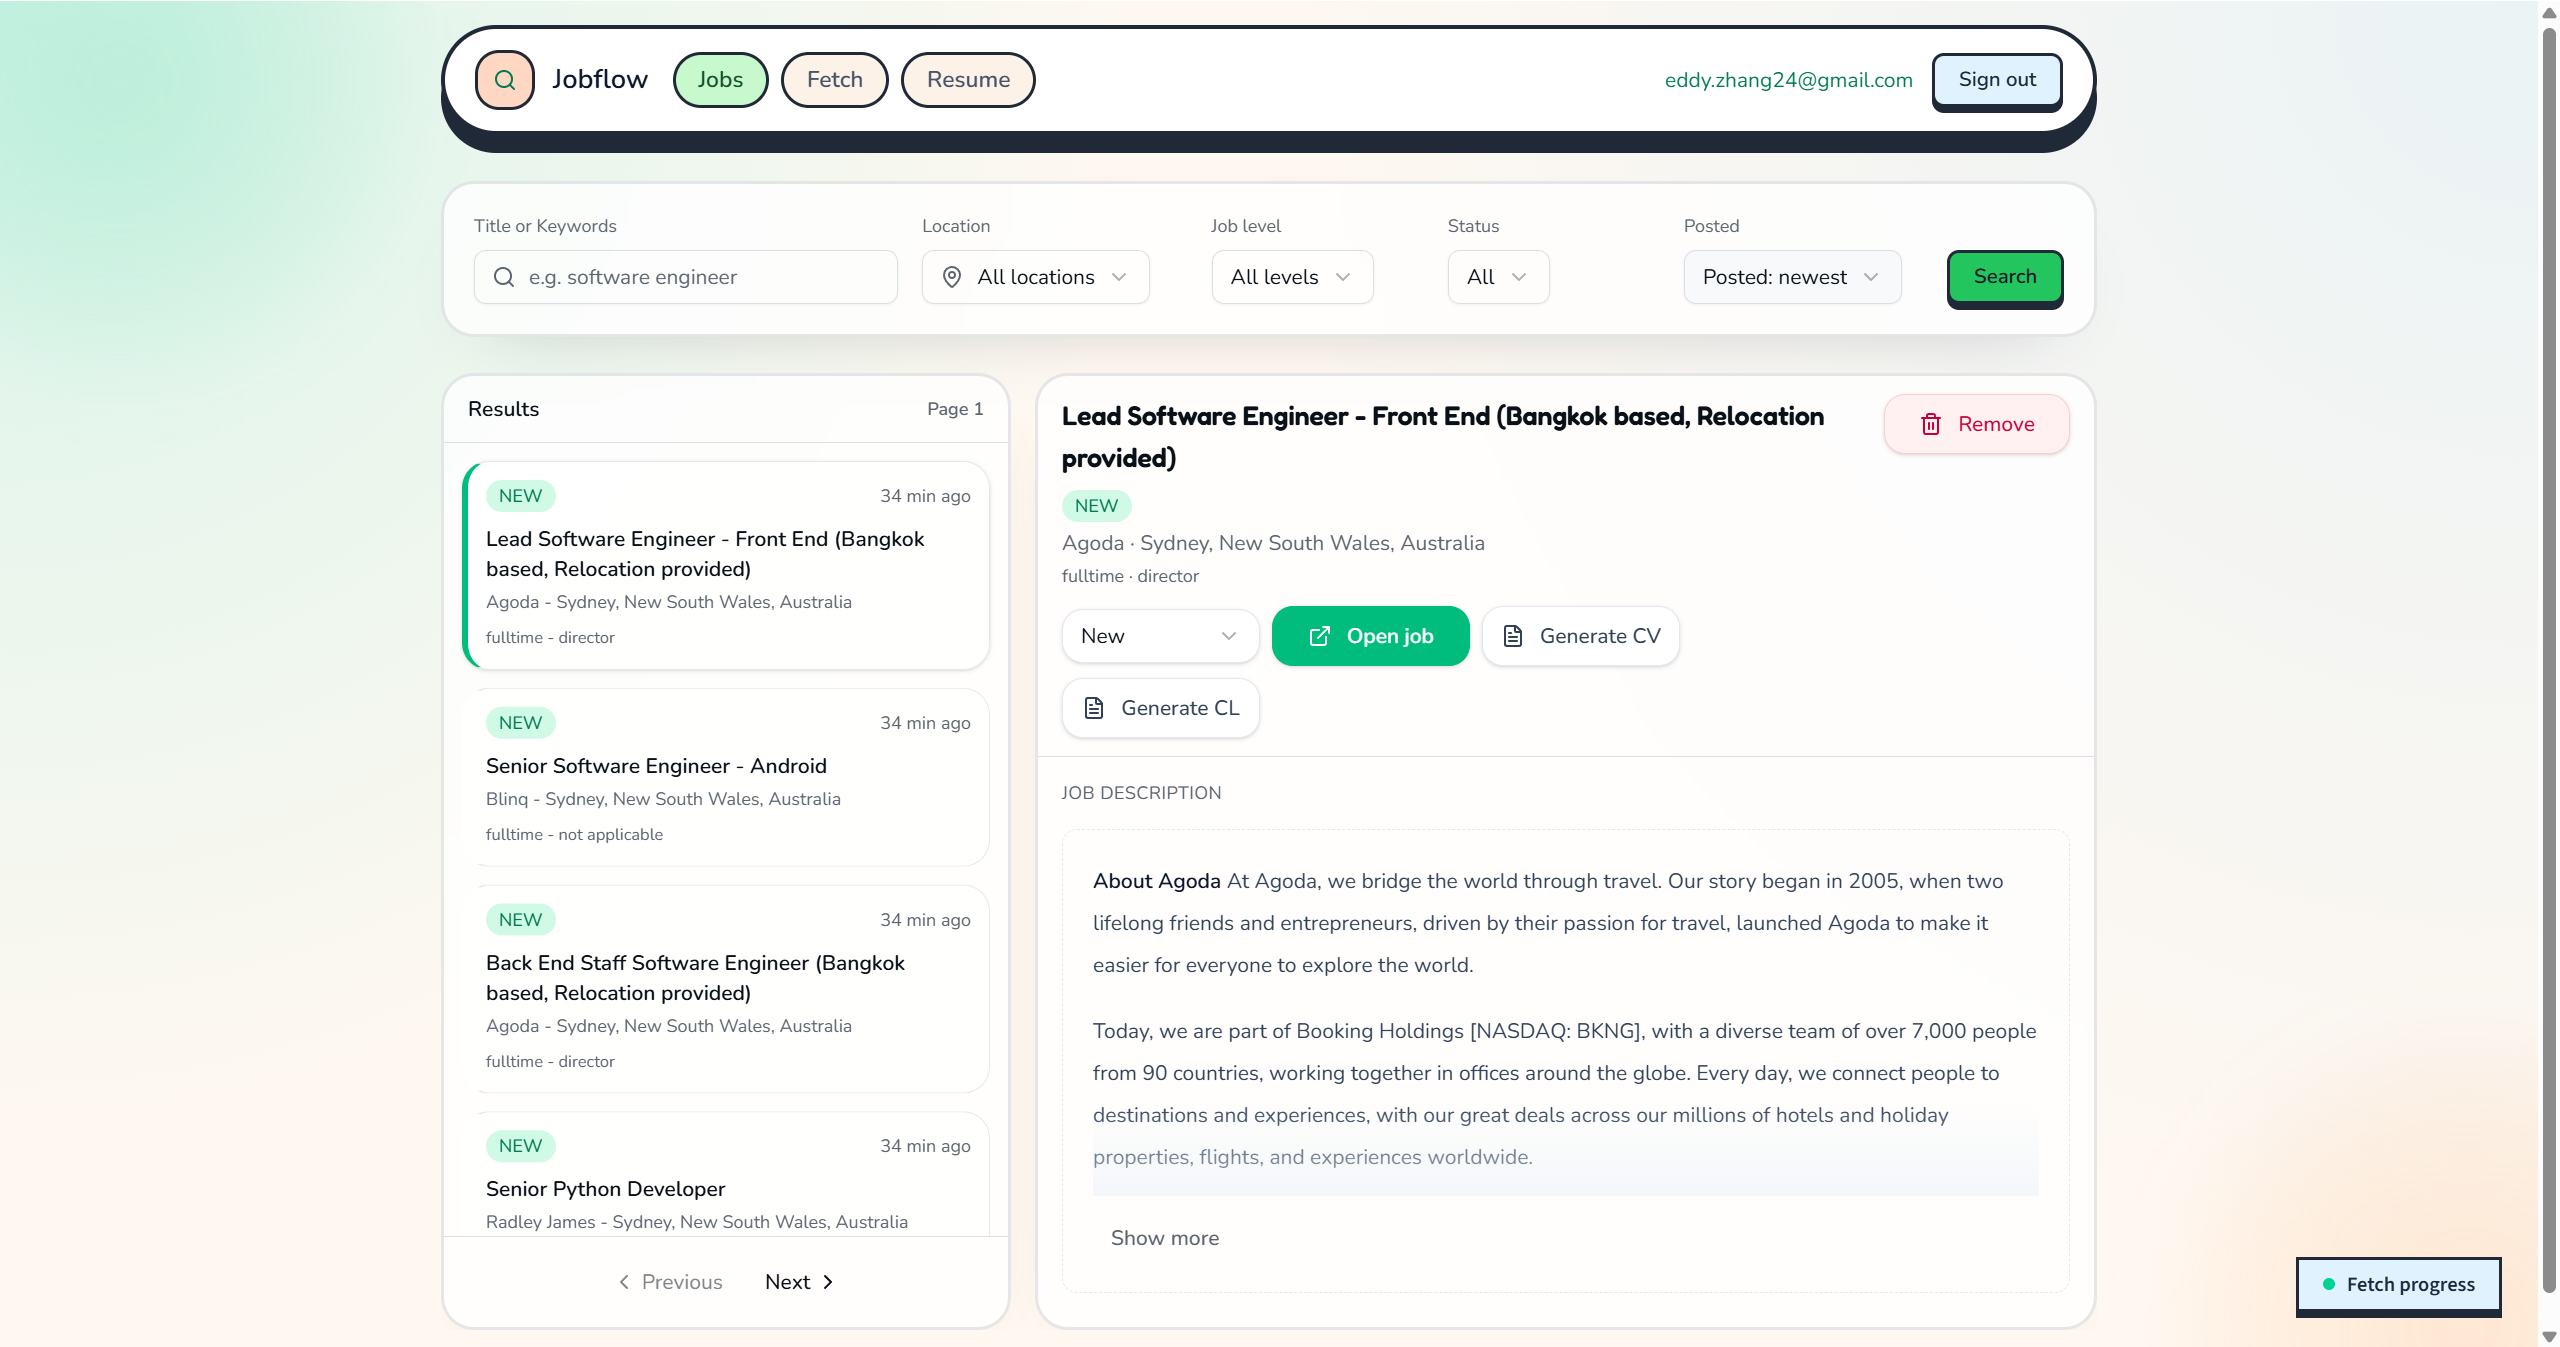
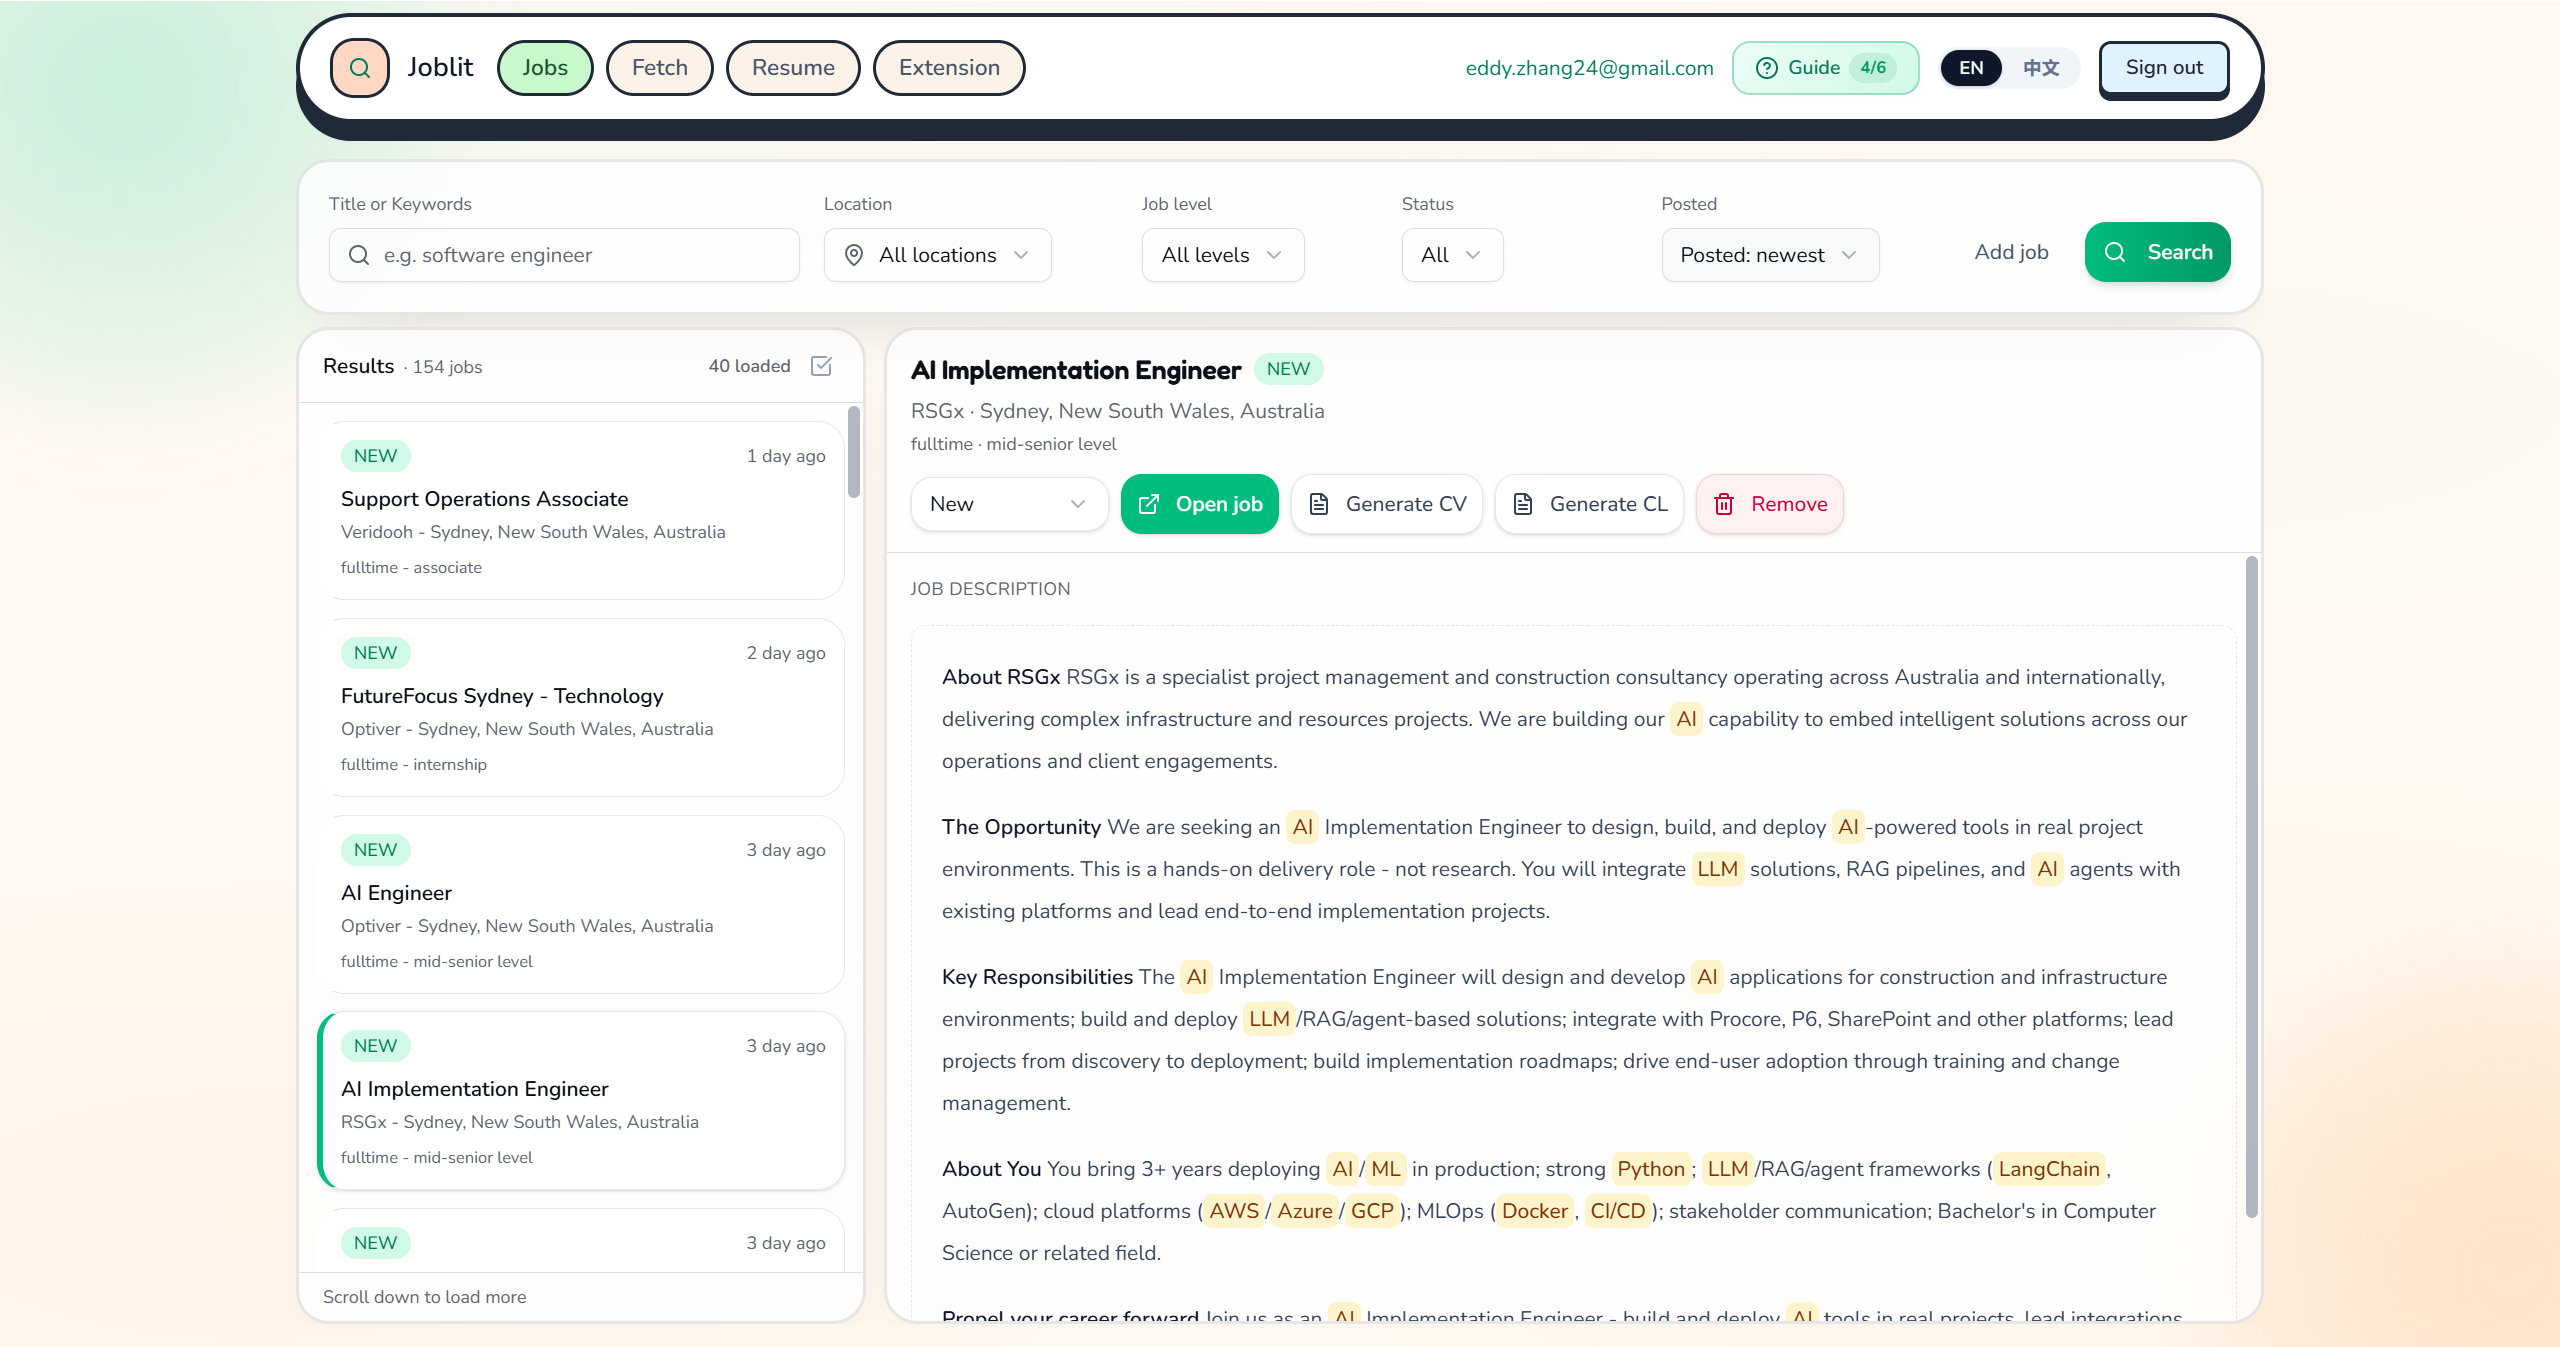
feat: update Joblit carousel — 5 new screenshots showcasing AI features
Slide order (optimized for recruiter/engineer impact):
1. Landing page — AI Skill Pack badge + live AI Tailor demo
2. Jobs workspace — AI keyword highlighting + Generate CV/CL buttons
3. Chrome Extension autofill — ATS form auto-filled with review widget
4. Resume builder — master resume editor + PDF preview
5. Extension install page — Greenhouse/Lever/Workday support

Changes:
- Replace 4 old slides with 5 new high-quality screenshots
- Delete joblit_fetch.png (replaced by jobs workspace)
- Add joblit_autofill.png (Chrome Extension in action)
- Add joblit_extension.png (Extension install guide)
- Update alt text for better accessibility and SEO
- Autoplay delay kept at 3.8s (5 slides × 3.8s = 19s full cycle)

diff --git a/src/constants/projects.js b/src/constants/projects.js
@@ -9,10 +9,11 @@ export const projects = [
     desktopReverse: false,
     autoplayDelay: 3800,
     slides: [
-      { src: "/images/joblit_landing.png", alt: "Joblit landing page" },
-      { src: "/images/joblit_fetch.png", alt: "Joblit fetch workflow page" },
-      { src: "/images/joblit_resume.png", alt: "Joblit resume builder page" },
-      { src: "/images/joblit_jobs.png", alt: "Joblit jobs workspace page" },
+      { src: "/images/joblit_landing.png", alt: "Joblit AI-powered landing page with live demo" },
+      { src: "/images/joblit_jobs.png", alt: "Joblit jobs workspace with AI keyword highlighting" },
+      { src: "/images/joblit_autofill.png", alt: "Joblit Chrome Extension auto-filling ATS application form" },
+      { src: "/images/joblit_resume.png", alt: "Joblit resume builder with PDF preview" },
+      { src: "/images/joblit_extension.png", alt: "Joblit AutoFill Chrome Extension installation page" },
     ],
     description:
       "An {AI-powered job search platform} with {Claude Code} integration, multi-provider LLM orchestration, and structured prompt engineering. Automates the entire workflow from discovering roles to auto-filling applications.",
